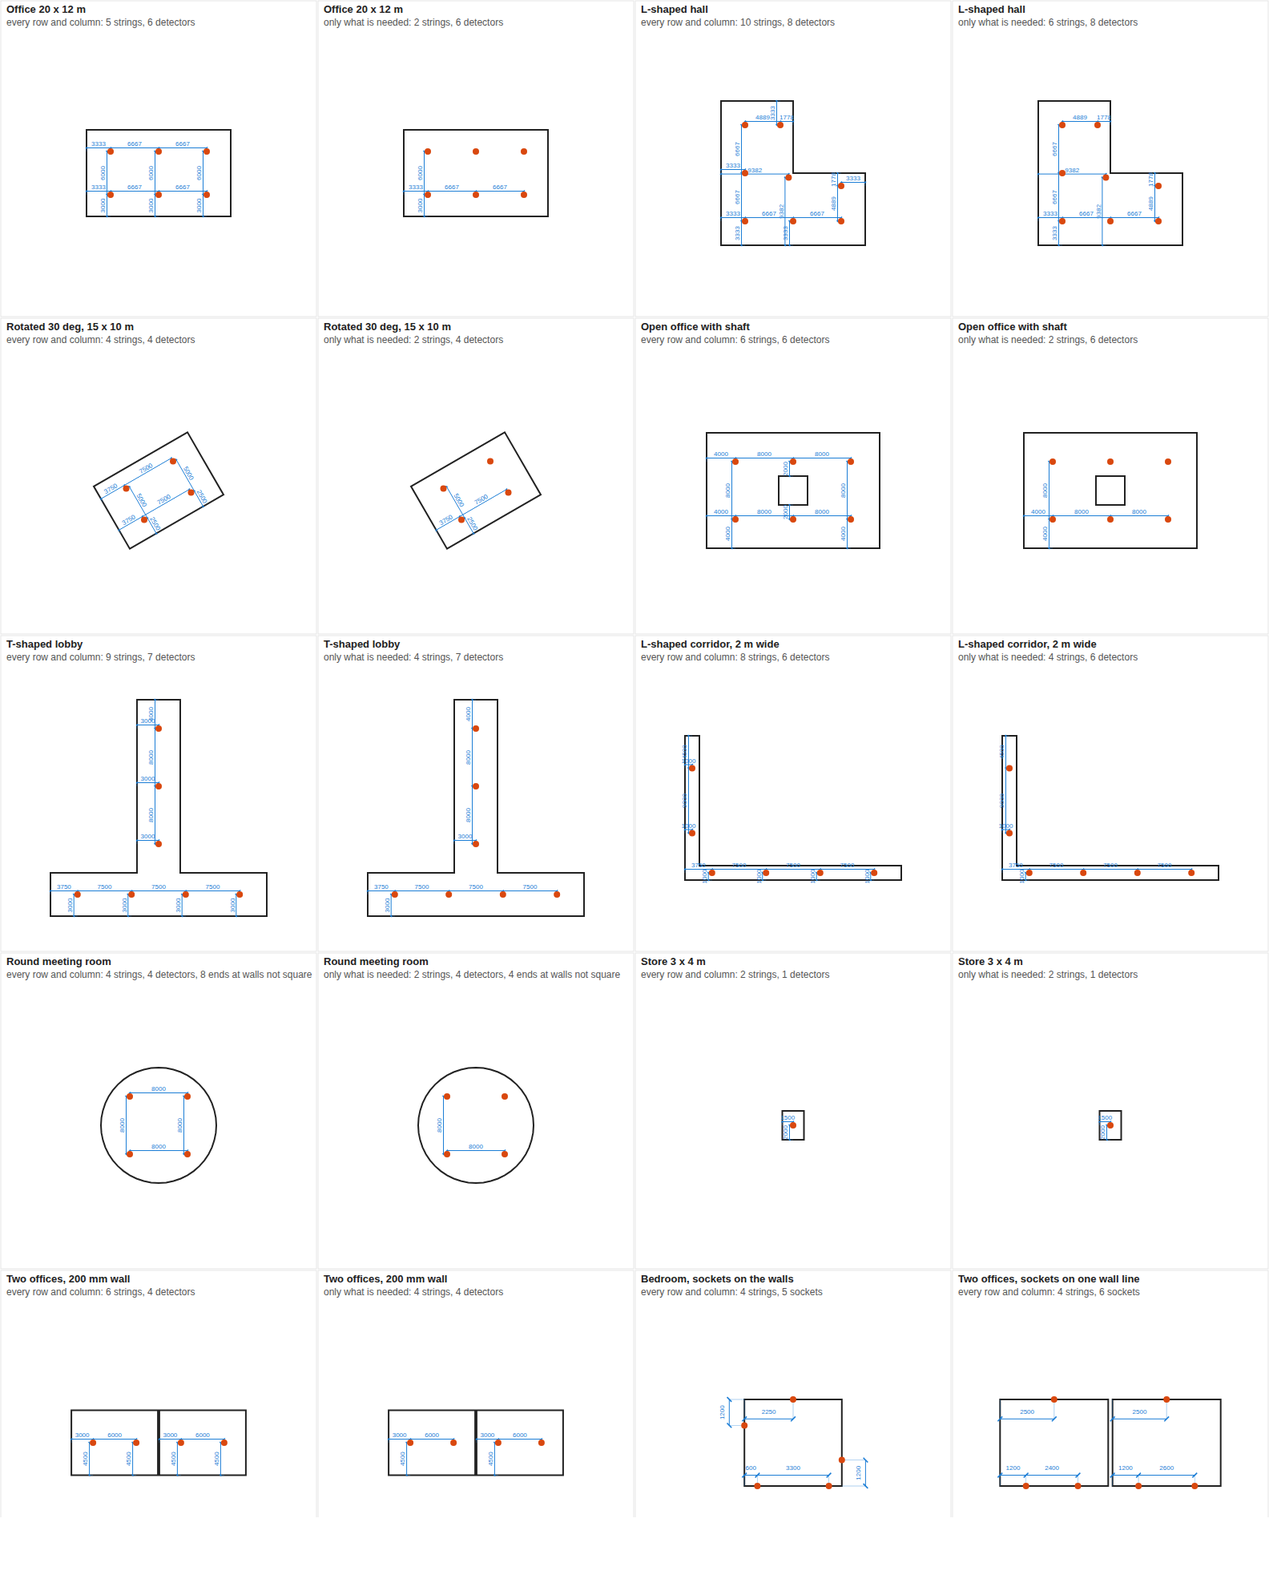
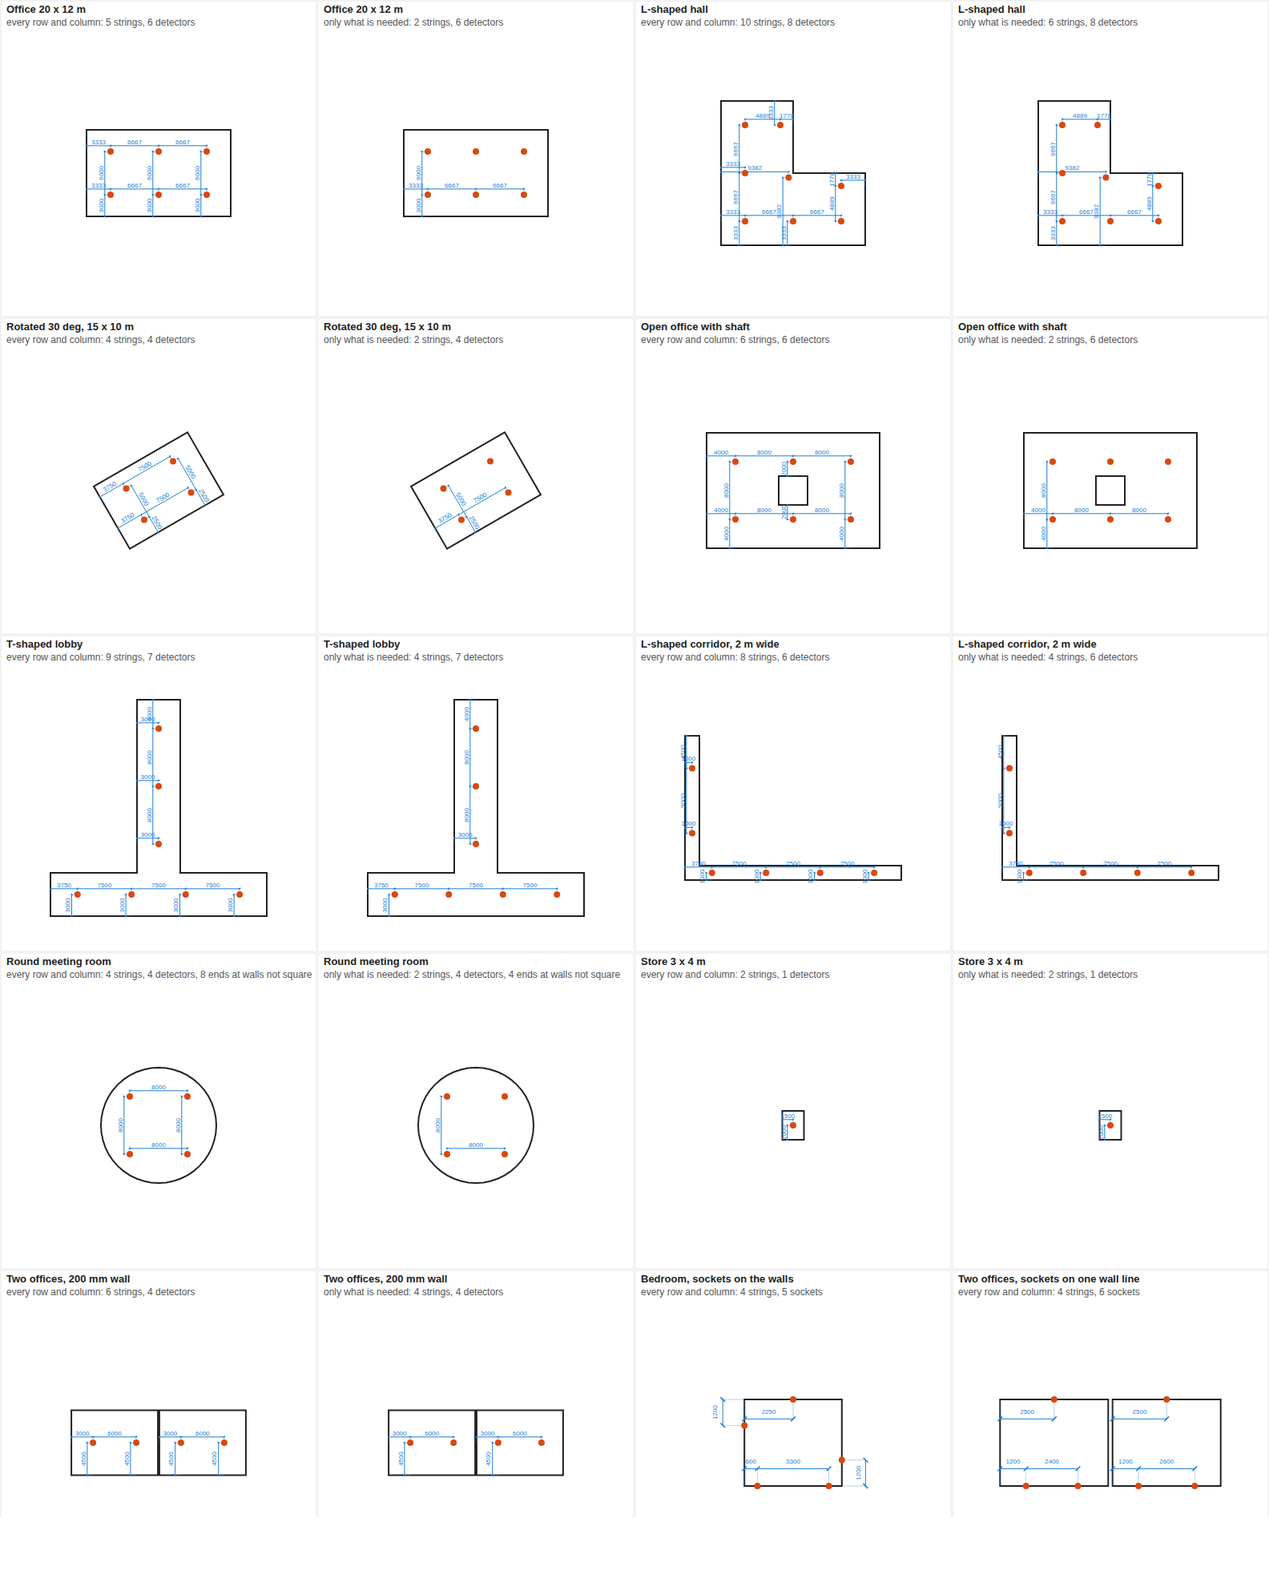
Dimensions: dimension line 8 mm from the devices, longer witness lines
With the line only 5 mm (on paper) from the device centres, the witness
lines of a dimension type with a gap to the element were short stubs
between the line and the symbols, so it was not clear which device each
one was for. The line now goes 8 mm from the devices by default.

Strings along walls whose text would sit between the line and the
devices now go at least 9 mm out (before: 4 mm more than the setting,
whatever it was), so a larger setting no longer pushes them further than
needed. The room kept for the text when checking crossings at corners is
its own value (4 mm).

The setting is saved under a new key, so a 5 mm saved by Dim Settings
does not keep the old distance. Its prompt now says that more gives
longer witness lines.

Claude-Session: https://claude.ai/code/session_01Jy34V7E8gSoty58KYG3y6M

diff --git a/tests/test_dims_chains.py b/tests/test_dims_chains.py
@@ -62,7 +62,8 @@ def test_only_what_is_needed_fixes_a_grid_with_one_row_and_one_column():
 
 
 def test_dimension_lines_sit_on_the_text_side():
-    result = run(OFFICE, segments([rect(0, 0, 20, 12)]), walls=BOTH, offset=0.5, extra=0.4)
+    result = run(OFFICE, segments([rect(0, 0, 20, 12)]), walls=BOTH,
+                 offset=0.5, clear=0.9, band=0.4)
     for chain in horizontal(result):
         (x0, y0), (x1, y1) = chain.line()
         assert y0 == pytest.approx(chain.members[0].y + 0.5)    # above the row
@@ -335,7 +336,7 @@ def test_sockets_are_dimensioned_along_their_wall_from_the_nearest_corner():
 
 
 def test_dimension_lines_of_sockets_are_in_the_room():
-    result = plan(SOCKETS, segment_walls(SOCKET_ROOM), offset=0.5, extra=0.4)
+    result = plan(SOCKETS, segment_walls(SOCKET_ROOM), offset=0.5, clear=0.9, band=0.4)
     lines = dict((c.members[0].key, c.line()) for c in result.chains)
     assert lines[0][0][1] == pytest.approx(0.5)             # bottom: text faces the room
     assert lines[2][0][1] == pytest.approx(4.0 - 0.9)       # top: text would face the wall
@@ -345,6 +346,19 @@ def test_dimension_lines_of_sockets_are_in_the_room():
         (x0, y0), (x1, y1) = chain.line()
         assert 0 < x0 < 6 or 0 < y0 < 4
     assert result.behind == 0                   # no two strings meet at a corner
+
+
+@pytest.mark.parametrize("offset,facing_wall", [(0.8, 0.9), (1.2, 1.2)])
+def test_text_facing_the_wall_keeps_clear_of_the_devices(offset, facing_wall):
+    # a line whose text is between it and the devices is at least `clear`
+    # from them, the others `offset`
+    result = plan(SOCKETS, segment_walls(SOCKET_ROOM), offset=offset, clear=0.9, band=0.4)
+    lines = dict((c.members[0].key, c.line()) for c in result.chains)
+    assert lines[0][0][1] == pytest.approx(offset)              # bottom: text faces the room
+    assert lines[2][0][1] == pytest.approx(4.0 - facing_wall)   # top: text faces the wall
+    assert lines[3][0][0] == pytest.approx(facing_wall)         # left: text on the wall side
+    assert lines[4][0][0] == pytest.approx(6.0 - offset)        # right
+    assert result.behind == 0
 
 
 def test_only_what_is_needed_keeps_every_wall():
@@ -372,7 +386,7 @@ def test_strings_meeting_at_a_corner_do_not_cross():
     # dimensioned from the top-left corner: their strings would cross
     devices = [socket(0, 1.2, 4.0, (0, -1)), socket(1, 3.0, 4.0, (0, -1)),   # top wall
                socket(2, 0.0, 2.8, (1, 0))]                                  # left wall
-    result = plan(devices, segment_walls(SOCKET_ROOM), offset=0.5, extra=0.4)
+    result = plan(devices, segment_walls(SOCKET_ROOM), offset=0.5, clear=0.9, band=0.4)
     top = [c for c in result.chains if c.members[0].key == 0][0]
     left = [c for c in result.chains if c.members[0].key == 2][0]
     assert along(top)[0] == 0.0 and along(left)[-1] == 4.0      # both from the corner
@@ -386,14 +400,14 @@ def test_strings_meeting_at_a_corner_in_the_room_do_not_cross():
     # bottom wall and right wall, both from the bottom-right corner
     devices = [socket(0, 4.8, 0.0, (0, 1)), socket(1, 3.0, 0.0, (0, 1)),     # bottom wall
                socket(2, 6.0, 1.4, (-1, 0))]                                 # right wall
-    result = plan(devices, segment_walls(SOCKET_ROOM), offset=0.5, extra=0.4)
+    result = plan(devices, segment_walls(SOCKET_ROOM), offset=0.5, clear=0.9, band=0.4)
     assert result.behind == 1 and not boxes_overlap(result)
 
 
 def test_back_to_back_sockets_stay_in_their_rooms():
     walls = segments([rect(0, 0, 6, 4), rect(0, 4.2, 6, 8.2)])
     devices = [socket(0, 1.5, 4.0, (0, -1)), socket(1, 1.5, 4.2, (0, 1))]    # both faces
-    result = plan(devices, segment_walls(walls), offset=0.5, extra=0.4)
+    result = plan(devices, segment_walls(walls), offset=0.5, clear=0.9, band=0.4)
     assert result.behind == 0
     ys = sorted(c.line()[0][1] for c in result.chains)
     assert ys[0] < 4.0 and ys[1] > 4.2                          # each in its own room
@@ -406,6 +420,6 @@ def test_a_string_with_no_room_behind_its_wall_stays():
     devices = [socket(0, 1.2, 4.0, (0, -1)), socket(1, 3.0, 4.0, (0, -1)),   # top wall
                socket(2, 0.0, 2.8, (1, 0)),                                  # left wall
                socket(3, -0.2, 3.1, (-1, 0))]                                # its other face
-    result = plan(devices, segment_walls(walls), offset=0.5, extra=0.4)
+    result = plan(devices, segment_walls(walls), offset=0.5, clear=0.9, band=0.4)
     left = [c for c in result.chains if c.members[0].key == 2][0]
     assert not left.behind and left.line()[0][0] > 0

diff --git a/Electrical.extension/lib/dims/chains.py b/Electrical.extension/lib/dims/chains.py
@@ -338,15 +338,15 @@ def _pick(k, candidates, tol, every_row):
 
 
 def plan(devices, find_wall, every_row=True, walls=NEAREST, right=(1.0, 0.0), up=(0.0, 1.0),
-         tol=ALIGN_TOL, offset=0.0, extra=0.0):
+         tol=ALIGN_TOL, offset=0.0, clear=0.0, band=0.0):
     """Dimension strings for `devices` ([Device]).
 
     find_wall(device, (dx, dy)) -> Hit or None. every_row False: only the
     strings needed to fix every position. walls: NEAREST, BOTH or NONE
     (walls still cut the rows). right / up: the view's directions, to know
     which side of a string has the text. offset: the dimension line from
-    the devices; extra: more when the text would face the devices, and the
-    room taken by the text (see _lay())."""
+    the devices; clear: at least this far when its text would be between
+    them; band: the room taken by the text (see _lay())."""
     result = Plan()
     for angle, members in _groups(devices):
         cache, rays, sides, pieces = {}, {}, {}, []
@@ -381,7 +381,7 @@ def plan(devices, find_wall, every_row=True, walls=NEAREST, right=(1.0, 0.0), up
             chosen.extend((k, chain) for chain in picked)
             result.alone.extend((i.device, angle + k * QUARTER) for i in alone)
         chosen.sort(key=lambda kc: (kc[0], kc[1].across, kc[1].stops[0].at))
-        result.behind += _lay([chain for _, chain in chosen], angle, offset, extra)
+        result.behind += _lay([chain for _, chain in chosen], angle, offset, clear, band)
         for _, chain in chosen:
             result.chains.append(chain)
             result.no_wall += chain.ends.count(NO_WALL)
@@ -391,13 +391,13 @@ def plan(devices, find_wall, every_row=True, walls=NEAREST, right=(1.0, 0.0), up
     return result
 
 
-def _shift(chain, offset, extra, behind=False):
+def _shift(chain, offset, clear, behind=False):
     """Across offset of the dimension line from the devices: `offset` on
     the chain's side (for a string along a wall behind it, past the wall),
-    and `extra` more when the text faces the devices."""
+    and at least `clear` when the text is between the line and the devices."""
     side = -chain.side if behind else chain.side
     past = chain.wall if behind else 0.0
-    return side * (past + offset + (0.0 if side == chain.text else extra))
+    return side * (past + (offset if side == chain.text else max(offset, clear)))
 
 
 def _box(chain, band, c, s):
@@ -416,20 +416,20 @@ def _overlap(a, b):
     return a[0] < b[1] and b[0] < a[1] and a[2] < b[3] and b[2] < a[3]
 
 
-def _lay(chains, angle, offset, extra):
+def _lay(chains, angle, offset, clear, band):
     """Place the dimension lines of one group of strings; returns how many
     strings along walls went behind their wall.
 
     A string's line goes on the side of its text, and a string along a
     wall into the room. Then, a few passes: a string along a wall whose
-    line and text (a band `extra` wide) run into another string's is moved
+    line and text (`band` wide) run into another string's is moved
     to the other side of its wall when that runs into fewer; the shortest
     strings move first."""
     c, s = math.cos(angle), math.sin(angle)
     for chain in chains:
-        chain.shift, chain.behind = _shift(chain, offset, extra), False
+        chain.shift, chain.behind = _shift(chain, offset, clear), False
     walls = sorted([ch for ch in chains if ch.wall is not None], key=lambda ch: ch.length)
-    boxes = dict((id(ch), _box(ch, extra, c, s)) for ch in chains)
+    boxes = dict((id(ch), _box(ch, band, c, s)) for ch in chains)
 
     def hits(chain, box):
         return sum(1 for other in chains
@@ -441,14 +441,14 @@ def _lay(chains, angle, offset, extra):
             now = hits(chain, boxes[id(chain)])
             if not now:
                 continue
-            chain.shift = _shift(chain, offset, extra, behind=not chain.behind)
-            flipped = _box(chain, extra, c, s)
+            chain.shift = _shift(chain, offset, clear, behind=not chain.behind)
+            flipped = _box(chain, band, c, s)
             if hits(chain, flipped) < now:
                 chain.behind = not chain.behind
                 boxes[id(chain)] = flipped
                 changed = True
             else:
-                chain.shift = _shift(chain, offset, extra, behind=chain.behind)
+                chain.shift = _shift(chain, offset, clear, behind=chain.behind)
         if not changed:
             break
     return sum(1 for ch in walls if ch.behind)

diff --git a/Electrical.extension/lib/dims/revit_dims.py b/Electrical.extension/lib/dims/revit_dims.py
@@ -53,8 +53,9 @@ RAY_LOW = 1.6           # ft (0.5 m): and again this far above the view's level
 RAY_GAP = 1.0           # ft: when that is at least this far below the first ray
 WALL_TALL = 6.5         # ft (2 m): a wall only the lower ray meets counts from this tall
 WALL_OFF = 0.5          # ft (150 mm): rays of a device on a wall start this far into the room
-TEXT_ROOM = 4.0         # mm on paper: more space when the text of a string along a wall
-                        # would face the wall, so it clears the device symbols
+TEXT_CLEAR = 9.0        # mm on paper: a dimension line with its text between it and the
+                        # devices (strings along walls) is at least this far, clear of the symbols
+TEXT_BAND = 4.0         # mm on paper: room taken by the text beside its dimension line
 PLANE_TOL = 0.01        # ft (3 mm): a reference plane this near the insertion point is a centre
 HELPER_HALF = 0.164     # ft (50 mm): half the length of a helper line through a device centre
 UPRIGHT = 1e-3          # a centre plane whose normal rises more than this is flat in the plan
@@ -739,7 +740,7 @@ def _make(doc, view, chain, line, dim_type, helpers):
     return None, 0, error or "Revit did not take the references"
 
 
-def dimension(doc, view, devices, dim_type=None, offset_mm=5.0, every_row=True,
+def dimension(doc, view, devices, dim_type=None, offset_mm=8.0, every_row=True,
               walls=NEAREST, old=(), old_helpers=()):
     """Plan the strings of `devices` ([Device]) and make them in `view`,
     one undo. walls: chains.NEAREST, BOTH or NONE. `old`: dimensions, and
@@ -750,7 +751,8 @@ def dimension(doc, view, devices, dim_type=None, offset_mm=5.0, every_row=True,
     level_z = level.ProjectElevation if level is not None else None
     z = level_z if level_z is not None else 0.0
     offset = offset_mm / 1000.0 * view.Scale            # m in the model
-    extra = TEXT_ROOM / 1000.0 * view.Scale
+    clear = TEXT_CLEAR / 1000.0 * view.Scale
+    band = TEXT_BAND / 1000.0 * view.Scale
     right, up = view.RightDirection, view.UpDirection
     group = TransactionGroup(doc, "Dimension Devices")
     group.Start()
@@ -763,7 +765,7 @@ def dimension(doc, view, devices, dim_type=None, offset_mm=5.0, every_row=True,
 
         planned = plan(devices, WallFinder(doc, ray_view, level_z), every_row=every_row,
                        walls=walls, right=(right.X, right.Y), up=(up.X, up.Y),
-                       offset=offset, extra=extra)
+                       offset=offset, clear=clear, band=band)
         run.alone = len(set(id(d) for d, _ in planned.alone))
         run.no_wall, run.skew = planned.no_wall, planned.skew
         run.other_no_wall, run.other_skew = planned.other_no_wall, planned.other_skew

diff --git a/Electrical.extension/lib/dims/command.py b/Electrical.extension/lib/dims/command.py
@@ -118,7 +118,8 @@ def run():
     if values["dim_type"]:
         dim_type = revit_dims.dimension_types(doc).get(values["dim_type"])
     result = revit_dims.dimension(
-        doc, view, devices, dim_type, values["offset"], every_row=values["strings"] == "every",
+        doc, view, devices, dim_type, values["line_offset"],
+        every_row=values["strings"] == "every",
         walls=values["ends"], old=old if replace else (),
         old_helpers=old_helpers if replace else ())
     result.notes, result.hidden = notes, hidden
@@ -136,7 +137,7 @@ def run():
 
 _SETTINGS = [
     ("dim_type", "Dimension type"),
-    ("offset", "Dimension line from the devices"),
+    ("line_offset", "Dimension line from the devices"),
     ("strings", "Strings"),
     ("ends", "Walls"),
 ]
@@ -159,7 +160,7 @@ def _shown(doc, key, value):
             return value
         default = revit_dims.default_type_name(doc) if doc is not None else ""
         return "the model's default" + (u" (%s)" % default if default else "")
-    if key == "offset":
+    if key == "line_offset":
         return "%s mm on the printed sheet" % _number(value)
     return _SHOWN[key][value]
 
@@ -205,7 +206,7 @@ def edit_settings():
             text = forms.ask_for_string(
                 default=_number(values[key]),
                 prompt="Distance from the devices to the dimension line, in mm on the printed "
-                       "sheet (0 = through the devices):",
+                       "sheet. More gives longer witness lines (0 = through the devices):",
                 title="%s Settings" % TITLE)
             if text is None:
                 continue

diff --git a/tests/test_dims_report.py b/tests/test_dims_report.py
@@ -65,18 +65,19 @@ def test_nothing_made():
 
 
 def test_settings_values():
-    assert settings.valid("offset", "7.5") == 7.5
-    assert settings.valid("offset", "0") == 0.0
-    assert settings.valid("offset", "-1") is None
-    assert settings.valid("offset", "51") is None
-    assert settings.valid("offset", "abc") is None
+    assert settings.valid("line_offset", "7.5") == 7.5
+    assert settings.valid("line_offset", "0") == 0.0
+    assert settings.valid("line_offset", "-1") is None
+    assert settings.valid("line_offset", "51") is None
+    assert settings.valid("line_offset", "abc") is None
     assert settings.valid("strings", "needed") == "needed"
     assert settings.valid("strings", "some") is None
     assert settings.valid("ends", "none") == "none"
     assert settings.valid("ends", "walls") is None
     assert settings.DEFAULTS["ends"] == "nearest"
+    assert settings.DEFAULTS["line_offset"] == 8.0
     assert settings.valid("dim_type", "Linear - 2.5mm Arial") == "Linear - 2.5mm Arial"
-    assert settings.coerce("offset", "x") == settings.DEFAULTS["offset"]
+    assert settings.coerce("line_offset", "x") == settings.DEFAULTS["line_offset"]
     assert settings.coerce("ends", None) == "nearest"
 
 

diff --git a/tools/preview_dims.py b/tools/preview_dims.py
@@ -27,8 +27,9 @@ from sample_rooms import ROOMS, rect  # noqa: E402
 PX = 9.0            # pixels per metre
 PANEL = 44.0        # panel size (m)
 COLUMNS = 4
-OFFSET = 0.5        # m, dimension line from the devices (5 mm on paper at 1:100)
-EXTRA = 0.4         # m, more when the text would face the devices (4 mm at 1:100)
+OFFSET = 0.8        # m, dimension line from the devices (8 mm on paper at 1:100)
+CLEAR = 0.9         # m, at least, when its text would be between them (9 mm at 1:100)
+BAND = 0.4          # m, room taken by the text (4 mm at 1:100)
 TICK = 0.3          # m, tick mark length
 
 # name -> rooms, each room its loops (outline first, then holes)
@@ -80,7 +81,7 @@ def _panel(name, rooms, spacing, every_row, sockets=None, zoom=1.0):
 
     devices = _devices(rooms, spacing) if sockets is None else _sockets(sockets)
     result = plan(devices, segment_walls(segments(loops)), every_row=every_row,
-                  offset=OFFSET, extra=EXTRA)
+                  offset=OFFSET, clear=CLEAR, band=BAND)
     out = []
     d = " ".join("M " + " L ".join("%.1f %.1f" % pt(p) for p in loop) + " Z" for loop in loops)
     out.append('<path d="%s" class="room"/>' % d)

diff --git a/Electrical.extension/lib/dims/settings.py b/Electrical.extension/lib/dims/settings.py
@@ -5,7 +5,7 @@ SECTION = "ElectricalDimensions"
 
 DEFAULTS = {
     "dim_type": "",             # linear dimension type name, "" = the model's default
-    "offset": 5.0,              # mm on the printed sheet, devices to the dimension line
+    "line_offset": 8.0,         # mm on the printed sheet, devices to the dimension line
     "strings": "every",         # 'every' row and column, or only what is 'needed'
     "ends": "nearest",          # 'nearest' wall, 'both' walls, or 'none': devices only
 }

diff --git a/README.md b/README.md
@@ -270,7 +270,7 @@ The **Dimensions** panel of the **Electrical** tab:
   dimension. The new dimensions are selected when done, one undo removes
   them all, and a summary lists what could not be dimensioned.
 - **Dim Settings** – dimension type (the model's default until you pick
-  one), distance from the devices to the dimension line (5 mm on the
+  one), distance from the devices to the dimension line (8 mm on the
   printed sheet), every row and column or only what is needed, and the
   walls: the nearest one only, both (wall to wall), or none (between
   devices only).
@@ -304,10 +304,10 @@ left of vertical ones), so the text stays clear of the devices.
 
 | Item | How |
 | --- | --- |
-| View | The active floor plan or ceiling plan. The dimension line is 5 mm on the printed sheet from the devices (0.5 m at 1:100). |
+| View | The active floor plan or ceiling plan. The dimension line is 8 mm on the printed sheet from the devices (0.8 m at 1:100), so its witness lines run clear of the device symbols and show which device each one is for. |
 | Devices | Family instances in this model. *All devices in this view* and spaces take fire alarm devices, lighting fixtures and devices, electrical fixtures, communication, data, security, nurse call and telephone devices, and generic models; selected or picked devices can be of any category. Devices in linked models are not dimensioned. |
 | Dimensioned to | The centre reference planes of the family, *Center (Left/Right)* and *Center (Front/Back)*, which Autodesk's family templates have. A centre plane set as a Strong or Weak reference is found by its name, or else by its position (the reference plane through the insertion point). A family with none (centre planes set to *Not a Reference*) is dimensioned to invisible detail lines drawn in the view through each device's centre, and the summary says so. Those dimensions do not move with the devices: run the tool again after moving them, it replaces the old dimensions and lines. For dimensions that move with the devices, set *Is Reference* of the family's centre planes to *Center (Left/Right)* / *Center (Front/Back)*. |
-| Devices on walls | Face-based families on a wall, and wall-hosted families. They are dimensioned along their wall only (never across the room), from the nearest corner. Their rays start 150 mm into the room, and the dimension line goes into the room: 5 mm from the wall, or 4 mm more when the text would face the wall, so it clears the symbols. Where two strings would cross or run over each other's text (two walls dimensioned from the same corner), one of them goes behind its wall instead, clear of the wall's thickness; the summary says how many. |
+| Devices on walls | Face-based families on a wall, and wall-hosted families. They are dimensioned along their wall only (never across the room), from the nearest corner. Their rays start 150 mm into the room, and the dimension line goes into the room: 8 mm from the wall, and at least 9 mm when the text would face the wall, so it clears the symbols. Where two strings would cross or run over each other's text (two walls dimensioned from the same corner), one of them goes behind its wall instead, clear of the wall's thickness; the summary says how many. |
 | Walls | Walls, curtain panels and mullions, in this model or in linked models, found by rays shot from the devices along the string: one 150 mm below each device (for ceiling devices: under the ceiling and above the doors), one 0.5 m above the level (under the windows, and for walls that stop below the ceiling). A door or window a ray meets stands for the wall it is in, so a string never goes through a doorway or a window. The nearer wall wins; the lower ray passes walls under 2 m high. A wall in a link is dimensioned through the link; when Revit does not take it, the string is made without that wall and the summary says so. When no wall is found on one side, or it is not square to the devices, the string goes to the wall on the other side, and the summary says so. |
 | Existing dimensions | Dimensions in the view that already go to the devices (or to their helper lines) can be replaced or kept. |
 
